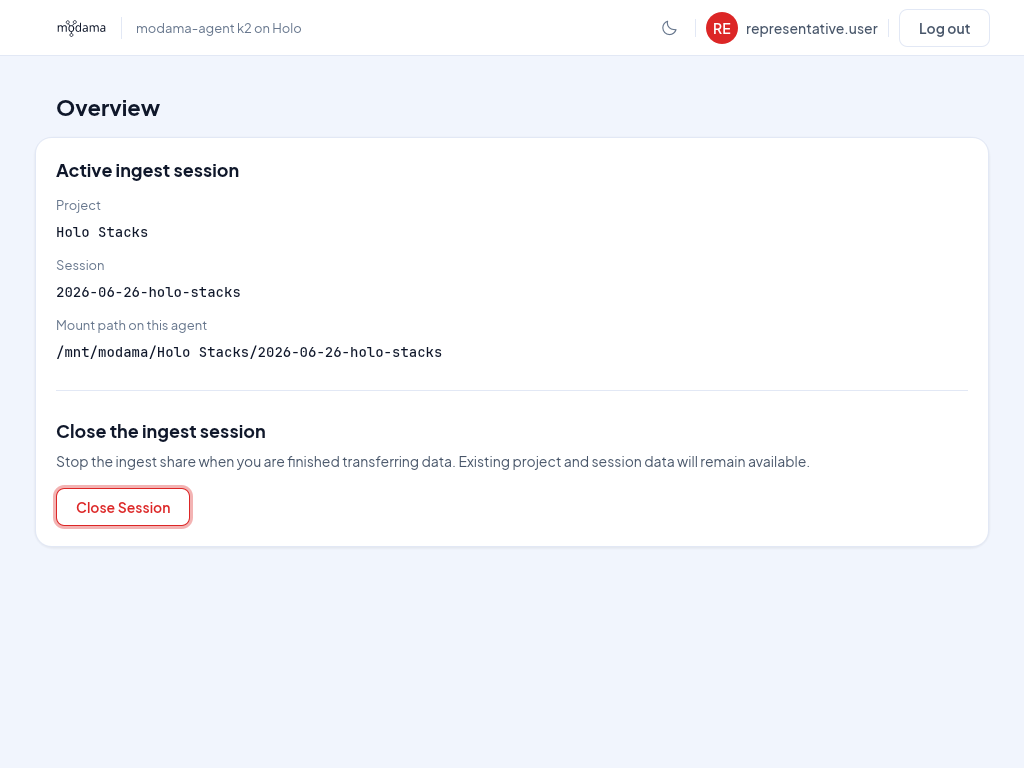
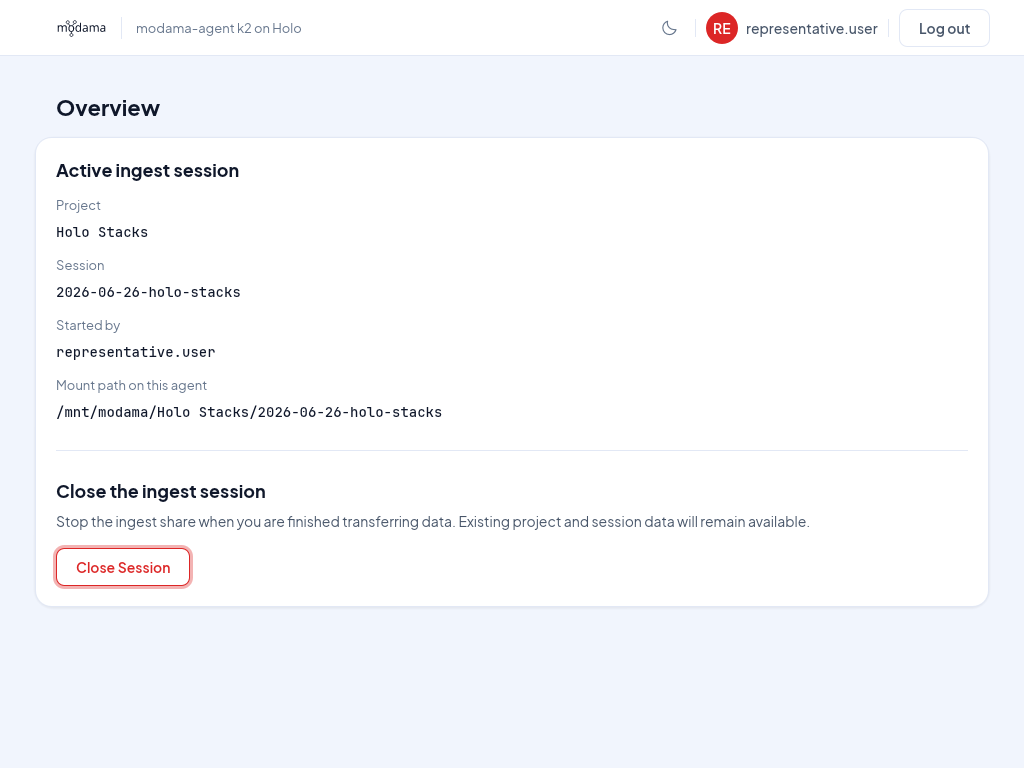
GUI: show who started the share on the session cards

Changed region(s): [[0.0312, 0.5, 0.7812, 0.7812], [0.0625, 0.4062, 0.4375, 0.4688]]

diff --git a/modama-rs/modama-agent-gui/src/pages/overview.rs b/modama-rs/modama-agent-gui/src/pages/overview.rs
@@ -100,15 +100,31 @@ impl PageOverview {
             }
             ForegroundSession::Mounting(session, message) => {
                 self.close_confirmation_open = false;
-                if self.show_mounting_session_card(ui, session, message, app_state.hand_off_blocked)
-                {
+                let started_by = session.created_by.as_deref();
+                if self.show_mounting_session_card(
+                    ui,
+                    session,
+                    started_by,
+                    message,
+                    app_state.hand_off_blocked,
+                ) {
                     return Action::ForceRelease;
                 }
             }
             ForegroundSession::None => {
                 self.close_confirmation_open = false;
                 if let Some(session) = pending_start {
-                    self.show_mounting_session_card(ui, session, "Waiting for agent…", false);
+                    // a share being started has no creator on record yet; it's the user
+                    let started_by = session.created_by.as_deref().or(signed_in
+                        .as_ref()
+                        .map(|signed_in| signed_in.username.as_str()));
+                    self.show_mounting_session_card(
+                        ui,
+                        session,
+                        started_by,
+                        "Waiting for agent…",
+                        false,
+                    );
                 } else if self.show_create_card(ui) {
                     return Action::CreateSession;
                 }
@@ -185,6 +201,7 @@ impl PageOverview {
         &mut self,
         ui: &mut egui::Ui,
         session: &PendingSession,
+        started_by: Option<&str>,
         status: &str,
         blocked: bool,
     ) -> bool {
@@ -194,6 +211,9 @@ impl PageOverview {
                 card_heading(ui, "Preparing ingest session");
                 session_detail(ui, "Project", &session.project);
                 session_detail(ui, "Session", &session.session);
+                if let Some(started_by) = started_by {
+                    session_detail(ui, "Started by", started_by);
+                }
                 ui.add_space(styles::spacing::button_margin_top::EGUI_POINTS);
                 ui.horizontal(|ui| {
                     ui.spinner();
@@ -227,6 +247,9 @@ impl PageOverview {
                 card_heading(ui, "Active ingest session");
                 session_detail(ui, "Project", &session.project);
                 session_detail(ui, "Session", &session.session);
+                if let Some(started_by) = &session.created_by {
+                    session_detail(ui, "Started by", started_by);
+                }
                 session_detail(
                     ui,
                     "Mount path on this agent",

diff --git a/modama-rs/modama-agent-gui/tests/overview_visual.rs b/modama-rs/modama-agent-gui/tests/overview_visual.rs
@@ -57,7 +57,7 @@ fn overview_harness(dark: bool, logged_in: bool) -> Harness<'static, AgentGuiApp
                 mount_path: Some(
                     "/mnt/modama/representative-project/2026-07-29-ingest".to_string(),
                 ),
-                created_by: None,
+                created_by: Some("representative.user".to_owned()),
             });
         }
         app
@@ -101,7 +101,7 @@ fn overview_snapshots() {
             share_id: "mounting-share".to_owned(),
             project: "representative-project".to_owned(),
             session: "2026-07-29-ingest".to_owned(),
-            created_by: None,
+            created_by: Some("representative.user".to_owned()),
         },
         "Waiting for the session helper to mount the share.".to_owned(),
     );
@@ -115,7 +115,7 @@ fn overview_snapshots() {
             share_id: "mounting-share".to_owned(),
             project: "representative-project".to_owned(),
             session: "2026-07-29-ingest".to_owned(),
-            created_by: None,
+            created_by: Some("representative.user".to_owned()),
         },
         "another user's drive is still connected; close their files or release it".to_owned(),
     );
@@ -337,7 +337,12 @@ fn top_bar_session_action_shares_the_card_right_guide() {
         (logout_right - expected_right).abs() <= tolerance,
         "logout right edge {logout_right} does not match guide {expected_right}"
     );
-    let username_rect = logged_in.get_by_label("representative.user").rect();
+    // the top bar's, not the "Started by" row's on the session card
+    let username_rect = logged_in
+        .get_all_by_label("representative.user")
+        .map(|node| node.rect())
+        .min_by(|a, b| a.top().total_cmp(&b.top()))
+        .expect("the username is shown");
     assert!(
         (username_rect.center().y - logout_rect.center().y).abs() <= tolerance,
         "username and logout must remain vertically centered on the same text line"
@@ -546,4 +551,18 @@ fn connecting_snapshot() {
     let mut results = SnapshotResults::new();
     results.extend_harness(&mut harness);
     results.unwrap();
+}
+
+#[test]
+fn started_by_is_shown_only_when_known() {
+    let mut known = overview_harness(false, true);
+    known.run_steps(1);
+    assert!(known.query_by_label("Started by").is_some());
+
+    let mut unknown = overview_harness(false, true);
+    if let ForegroundSession::Mounted(session) = &mut unknown.state_mut().app_state.foreground {
+        session.created_by = None;
+    }
+    unknown.run_steps(1);
+    assert!(unknown.query_by_label("Started by").is_none());
 }

diff --git a/modama-rs/modama-agent-gui/src/guide_screenshots.rs b/modama-rs/modama-agent-gui/src/guide_screenshots.rs
@@ -152,7 +152,7 @@ fn build_app(scene: GuideScene, release: Option<Arc<Barrier>>, ctx: &egui::Conte
                 project: PROJECT.to_owned(),
                 session: SESSION.to_owned(),
                 mount_path: Some(format!("/mnt/modama/{PROJECT}/{SESSION}")),
-                created_by: None,
+                created_by: Some(USERNAME.to_owned()),
             });
             app.page = Page::Overview(PageOverview::new());
         }
